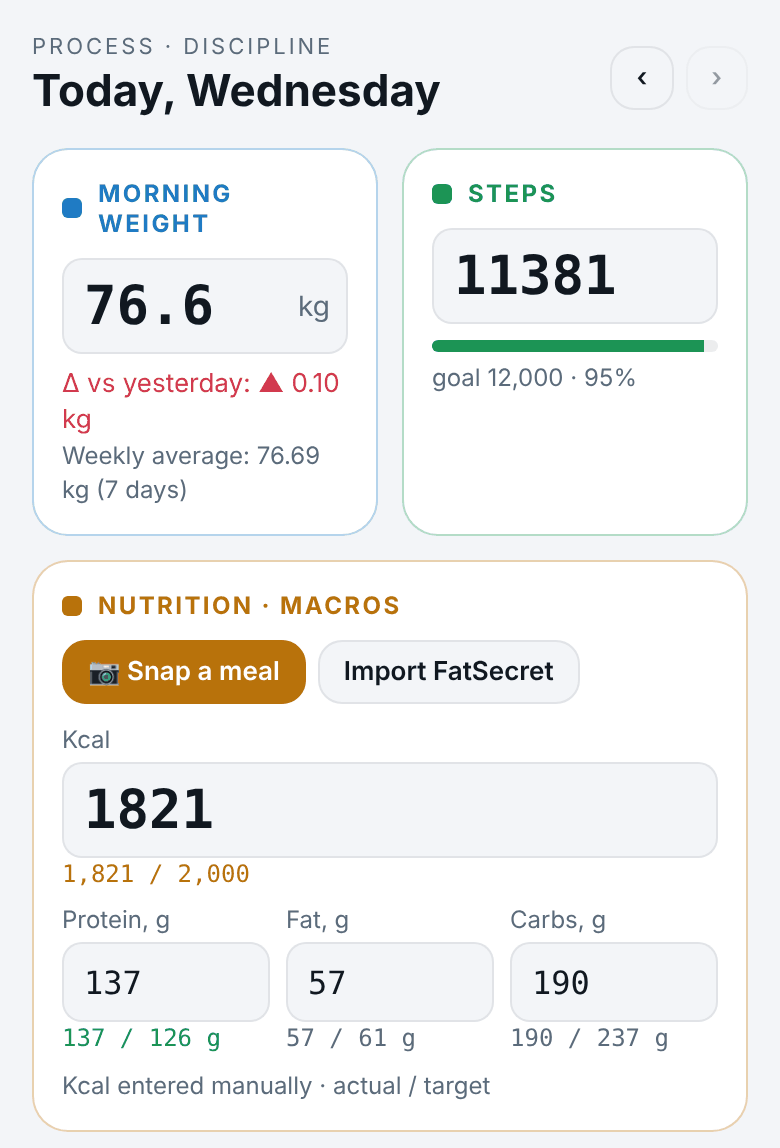
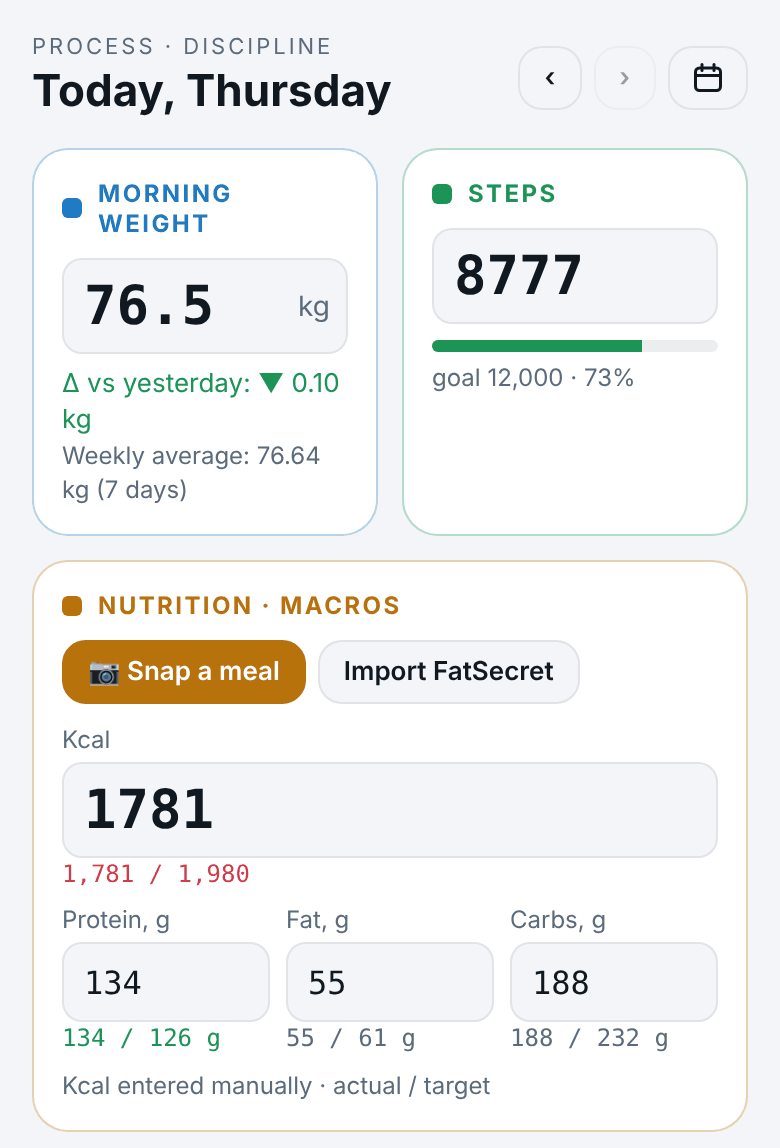
Дневник: кнопка календаря рядом со стрелками — переход к любой дате (RU/EN)
Окно с месяцем: будущие дни недоступны, дни с записями отмечены точкой,
кнопки «Сегодня» и «Отмена». monthCells в core/dates + тесты.
Обновлены текст и скриншоты «Помощи».

Claude-Session: https://claude.ai/code/session_01HA1pnnCCFy6R2TSSsSCTUs

diff --git a/src/ui/DatePicker.tsx b/src/ui/DatePicker.tsx
@@ -1,0 +1,170 @@
+// Календарь для перехода к любому дню дневника. Будущие дни (после today) недоступны,
+// дни с записями помечены точкой. Даты — строки ГГГГ-ММ-ДД по местному времени (без toISOString).
+
+import React, { useEffect, useMemo, useState } from 'react';
+import { Modal, Pressable, Text, View } from 'react-native';
+import Svg, { Line, Rect } from 'react-native-svg';
+import { monthCells, parseISO, type ISODate } from '../core/dates';
+import { useI18n } from '../i18n';
+import { useTheme } from './theme';
+
+/** Иконка календаря для кнопки рядом со стрелками. */
+export function CalendarIcon({ color, size = 16 }: { color: string; size?: number }) {
+  return (
+    <Svg width={size} height={size} viewBox="0 0 16 16" fill="none">
+      <Rect x={1.75} y={3} width={12.5} height={11.25} rx={2} stroke={color} strokeWidth={1.5} />
+      <Line x1={1.75} y1={6.75} x2={14.25} y2={6.75} stroke={color} strokeWidth={1.5} />
+      <Line x1={5} y1={1.25} x2={5} y2={4.25} stroke={color} strokeWidth={1.5} strokeLinecap="round" />
+      <Line x1={11} y1={1.25} x2={11} y2={4.25} stroke={color} strokeWidth={1.5} strokeLinecap="round" />
+    </Svg>
+  );
+}
+
+export function DatePicker({
+  visible,
+  value,
+  max,
+  marked,
+  onPick,
+  onClose,
+}: {
+  visible: boolean;
+  value: ISODate;
+  /** Последний доступный день (сегодня). */
+  max: ISODate;
+  /** Есть ли записи в этот день. */
+  marked: (d: ISODate) => boolean;
+  onPick: (d: ISODate) => void;
+  onClose: () => void;
+}) {
+  const t = useTheme();
+  const { tx } = useI18n();
+  const C = tx.day.calendar;
+  const [ym, setYm] = useState(() => {
+    const d = parseISO(value);
+    return { y: d.getFullYear(), m: d.getMonth() };
+  });
+  useEffect(() => {
+    if (!visible) return;
+    const d = parseISO(value);
+    setYm({ y: d.getFullYear(), m: d.getMonth() });
+  }, [visible, value]);
+
+  const maxD = parseISO(max);
+  const atMax = ym.y > maxD.getFullYear() || (ym.y === maxD.getFullYear() && ym.m >= maxD.getMonth());
+  const cells = useMemo(() => monthCells(ym.y, ym.m, C.weekStart), [ym, C.weekStart]);
+  const heads = [...Array(7)].map((_, i) => C.weekdaysShort[(i + C.weekStart) % 7]);
+  const step = (k: number) => setYm(({ y, m }) => ({ y: y + Math.floor((m + k) / 12), m: (((m + k) % 12) + 12) % 12 }));
+  const pick = (d: ISODate) => {
+    onPick(d);
+    onClose();
+  };
+
+  const navBtn = (label: string, onPress: () => void, disabled: boolean, testID: string) => (
+    <Pressable
+      testID={testID}
+      onPress={onPress}
+      disabled={disabled}
+      hitSlop={6}
+      style={({ pressed }) => ({
+        width: 36,
+        height: 36,
+        borderRadius: 10,
+        borderWidth: 1,
+        borderColor: t.line,
+        backgroundColor: t.input,
+        alignItems: 'center',
+        justifyContent: 'center',
+        opacity: disabled ? 0.35 : pressed ? 0.7 : 1,
+      })}
+    >
+      <Text style={{ color: t.text, fontSize: 18, fontWeight: '600' }}>{label}</Text>
+    </Pressable>
+  );
+
+  return (
+    <Modal visible={visible} transparent animationType="fade" onRequestClose={onClose}>
+      <Pressable
+        onPress={onClose}
+        style={{ flex: 1, backgroundColor: 'rgba(0,0,0,0.55)', alignItems: 'center', justifyContent: 'center', padding: 16 }}
+      >
+        {/* нажатия внутри карточки не закрывают окно */}
+        <Pressable
+          onPress={() => {}}
+          testID="calendar"
+          style={{ width: '100%', maxWidth: 360, backgroundColor: t.card, borderRadius: 18, borderWidth: 1, borderColor: t.cardBorder, padding: 16 }}
+        >
+          <View style={{ flexDirection: 'row', alignItems: 'center', justifyContent: 'space-between', marginBottom: 12 }}>
+            {navBtn('‹', () => step(-1), false, 'calPrev')}
+            <Text style={{ color: t.text, fontSize: 17, fontWeight: '700' }}>
+              {C.months[ym.m]} {ym.y}
+            </Text>
+            {navBtn('›', () => step(1), atMax, 'calNext')}
+          </View>
+
+          <View style={{ flexDirection: 'row' }}>
+            {heads.map((h, i) => (
+              <Text key={i} style={{ width: `${100 / 7}%`, textAlign: 'center', color: t.muted, fontSize: 12, paddingBottom: 6 }}>
+                {h}
+              </Text>
+            ))}
+          </View>
+
+          <View style={{ flexDirection: 'row', flexWrap: 'wrap' }}>
+            {cells.map((d, i) => {
+              if (!d) return <View key={i} style={{ width: `${100 / 7}%`, height: 42 }} />;
+              const future = d > max;
+              const sel = d === value;
+              const today = d === max;
+              const has = !future && marked(d);
+              return (
+                <View key={i} style={{ width: `${100 / 7}%`, height: 42, alignItems: 'center', justifyContent: 'center' }}>
+                  <Pressable
+                    testID={`cal-${d}`}
+                    disabled={future}
+                    onPress={() => pick(d)}
+                    style={({ pressed }) => ({
+                      width: 38,
+                      height: 38,
+                      borderRadius: 19,
+                      alignItems: 'center',
+                      justifyContent: 'center',
+                      backgroundColor: sel ? t.amber : 'transparent',
+                      borderWidth: today && !sel ? 1.5 : 0,
+                      borderColor: t.amber,
+                      opacity: future ? 0.3 : pressed ? 0.7 : 1,
+                    })}
+                  >
+                    <Text style={{ color: sel ? t.onAccent : t.text, fontSize: 15, fontWeight: sel || today ? '700' : '400' }}>
+                      {Number(d.slice(8))}
+                    </Text>
+                    {has ? (
+                      <View
+                        style={{ position: 'absolute', bottom: 4, width: 5, height: 5, borderRadius: 3, backgroundColor: sel ? t.onAccent : t.green }}
+                      />
+                    ) : null}
+                  </Pressable>
+                </View>
+              );
+            })}
+          </View>
+
+          <View style={{ flexDirection: 'row', alignItems: 'center', justifyContent: 'space-between', marginTop: 12 }}>
+            <View style={{ flexDirection: 'row', alignItems: 'center', gap: 6, flexShrink: 1 }}>
+              <View style={{ width: 6, height: 6, borderRadius: 3, backgroundColor: t.green }} />
+              <Text style={{ color: t.muted, fontSize: 12 }}>{C.legend}</Text>
+            </View>
+            <View style={{ flexDirection: 'row', gap: 14 }}>
+              <Pressable onPress={() => pick(max)} hitSlop={6} testID="calToday">
+                <Text style={{ color: t.amber, fontWeight: '600', fontSize: 14 }}>{tx.common.today}</Text>
+              </Pressable>
+              <Pressable onPress={onClose} hitSlop={6} testID="calClose">
+                <Text style={{ color: t.muted, fontWeight: '600', fontSize: 14 }}>{tx.common.cancel}</Text>
+              </Pressable>
+            </View>
+          </View>
+        </Pressable>
+      </Pressable>
+    </Modal>
+  );
+}

diff --git a/src/screens/Day.tsx b/src/screens/Day.tsx
@@ -18,6 +18,7 @@ import { dayPlan, fatTone, kcalTone, proteinTone, type Tone } from '../core/targ
 import { planLine, planNotes, toneColor } from '../ui/targets';
 import { ProposalCards } from './Goal';
 import { useAdvanced } from '../ui/mode';
+import { CalendarIcon, DatePicker } from '../ui/DatePicker';
 
 export function DayScreen({
   sel,
@@ -47,9 +48,15 @@ export function DayScreen({
   const [importMsg, setImportMsg] = useState<{ text: string; ok: boolean } | null>(null);
   const [confirmClear, setConfirmClear] = useState(false);
   const [reportMsg, setReportMsg] = useState('');
+  const [calOpen, setCalOpen] = useState(false);
   const adv = useAdvanced();
   const today = todayISO();
   const set = (patch: Parameters<typeof setDay>[1]) => setDay(sel, patch);
+  /** День с записями — точка в календаре. */
+  const hasEntry = (dd: ISODate) => {
+    const x = days[dd];
+    return !!x && !!(x.weight || x.steps || x.kcal || x.protein || x.workoutMin || x.comment || x.photoMeals?.length);
+  };
 
   // ---- вес ----
   const prevW = days[shiftDate(sel, -1)]?.weight;
@@ -131,8 +138,29 @@ export function DayScreen({
           <Btn small title="‹" onPress={() => setSel(shiftDate(sel, -1))} testID="prevDay" />
           {sel !== today ? <Btn small title={tx.common.today} onPress={() => setSel(today)} /> : null}
           <Btn small title="›" onPress={() => setSel(shiftDate(sel, 1))} disabled={sel >= today} testID="nextDay" />
+          <Pressable
+            testID="openCalendar"
+            accessibilityRole="button"
+            accessibilityLabel={D.calendar.open}
+            onPress={() => setCalOpen(true)}
+            hitSlop={4}
+            style={({ pressed }) => ({
+              borderWidth: 1,
+              borderRadius: 12,
+              borderColor: t.line,
+              backgroundColor: t.input,
+              paddingVertical: 7,
+              paddingHorizontal: 11,
+              alignItems: 'center',
+              justifyContent: 'center',
+              opacity: pressed ? 0.75 : 1,
+            })}
+          >
+            <CalendarIcon color={t.text} />
+          </Pressable>
         </Row>
       </Row>
+      <DatePicker visible={calOpen} value={sel} max={today} marked={hasEntry} onPick={setSel} onClose={() => setCalOpen(false)} />
 
       <ProposalCards />
 

diff --git a/src/help/shots.gen.ts b/src/help/shots.gen.ts
@@ -8,7 +8,7 @@ export const HELP_SHOTS: Record<string, Record<string, HelpShot>> = {
     start: { src: require('../../assets/help/ru/start.png'), w: 780, h: 1646 },
     onboard: { src: require('../../assets/help/ru/onboard.png'), w: 780, h: 1216 },
     day: { src: require('../../assets/help/ru/day.png'), w: 780, h: 1118 },
-    workout: { src: require('../../assets/help/ru/workout.png'), w: 780, h: 1450 },
+    workout: { src: require('../../assets/help/ru/workout.png'), w: 780, h: 1416 },
     comment: { src: require('../../assets/help/ru/comment.png'), w: 780, h: 840 },
     fact: { src: require('../../assets/help/ru/fact.png'), w: 780, h: 1900 },
     charts: { src: require('../../assets/help/ru/charts.png'), w: 780, h: 1508 },
@@ -23,7 +23,7 @@ export const HELP_SHOTS: Record<string, Record<string, HelpShot>> = {
     start: { src: require('../../assets/help/en/start.png'), w: 780, h: 1534 },
     onboard: { src: require('../../assets/help/en/onboard.png'), w: 780, h: 1216 },
     day: { src: require('../../assets/help/en/day.png'), w: 780, h: 1148 },
-    workout: { src: require('../../assets/help/en/workout.png'), w: 780, h: 1450 },
+    workout: { src: require('../../assets/help/en/workout.png'), w: 780, h: 1416 },
     comment: { src: require('../../assets/help/en/comment.png'), w: 780, h: 840 },
     fact: { src: require('../../assets/help/en/fact.png'), w: 780, h: 1824 },
     charts: { src: require('../../assets/help/en/charts.png'), w: 780, h: 1400 },

diff --git a/src/core/core.test.ts b/src/core/core.test.ts
@@ -1,5 +1,5 @@
 import { describe, expect, it } from 'vitest';
-import { addMonthsClamped, ageAt, shiftDate, toLocalISO } from './dates';
+import { addMonthsClamped, ageAt, monthCells, shiftDate, toLocalISO } from './dates';
 import { energyModel, PaceIndex } from './energy';
 import { measureHint, navyBodyFat } from './body';
 import { adaptiveTDEE, goalForecast, wls } from './adaptive';
@@ -225,5 +225,19 @@ describe('режим интерфейса', () => {
   it('новый клиент — базовый, демо — продвинутый', () => {
     expect(DEFAULT_PROFILE.uiMode).toBe('basic');
     expect(demoProfile().uiMode).toBe('advanced');
+  });
+});
+
+describe('monthCells (календарь дневника)', () => {
+  it('ноябрь 2026 с понедельника: 1-е — воскресенье, 6 пустых клеток', () => {
+    const c = monthCells(2026, 10, 1);
+    expect(c.slice(0, 7)).toEqual([null, null, null, null, null, null, '2026-11-01']);
+    expect(c.filter(Boolean).length).toBe(30);
+    expect(c.length % 7).toBe(0);
+    expect(c.filter(Boolean).at(-1)).toBe('2026-11-30');
+  });
+  it('с воскресенья: 1 ноября 2026 в первой клетке; февраль високосного года', () => {
+    expect(monthCells(2026, 10, 0)[0]).toBe('2026-11-01');
+    expect(monthCells(2028, 1, 1).filter(Boolean).length).toBe(29);
   });
 });

diff --git a/src/i18n/help.ru.ts b/src/i18n/help.ru.ts
@@ -71,7 +71,7 @@ export const helpRu = {
       id: 'day',
       title: 'Дневник дня: вес, шаги, питание',
       text: [
-        'Стрелки ‹ › вверху переключают дни. Можно заполнять и прошлые дни.',
+        'Стрелки ‹ › вверху переключают дни, а кнопка с календарём открывает выбор любой даты (точкой отмечены дни с записями). Можно заполнять и прошлые дни.',
         '**Утренний вес** — натощак, после туалета. Ниже видно изменение к вчерашнему и среднее за неделю.',
         '**Шаги** — из телефона или трекера, за весь день.',
         '**Питание**: впишите калории и БЖУ вручную, нажмите «Импорт FatSecret» или «📷 Сфотографировать» и выберите приём пищи. Если калории не введены, они считаются по БЖУ.',

diff --git a/src/i18n/ru.ts b/src/i18n/ru.ts
@@ -154,6 +154,14 @@ export const ru = {
     /** relative — вместо даты «Сегодня»/«Вчера». */
     title: (date: string, weekday: string, _relative = false) => `${date}, ${weekday}`,
     reportSent: 'Отчёт куратору отправлен',
+    calendar: {
+      open: 'Выбрать дату',
+      months: ['Январь', 'Февраль', 'Март', 'Апрель', 'Май', 'Июнь', 'Июль', 'Август', 'Сентябрь', 'Октябрь', 'Ноябрь', 'Декабрь'],
+      weekdaysShort: ['вс', 'пн', 'вт', 'ср', 'чт', 'пт', 'сб'], // с воскресенья, как Date.getDay()
+      /** С какого дня начинается неделя: 1 — понедельник, 0 — воскресенье. */
+      weekStart: 1 as 0 | 1,
+      legend: 'есть записи',
+    },
     weight: {
       title: 'Утренний вес',
       placeholder: '0,00',

diff --git a/src/core/dates.ts b/src/core/dates.ts
@@ -58,4 +58,15 @@ export function dateRange(from: ISODate, to: ISODate): ISODate[] {
   return out;
 }
 
+/** Ячейки месяца: null — пустые клетки до первого числа. weekStart: 1 — с понедельника, 0 — с воскресенья. */
+export function monthCells(year: number, month0: number, weekStart: 0 | 1): (ISODate | null)[] {
+  const first = new Date(year, month0, 1, 12);
+  const lead = (first.getDay() - weekStart + 7) % 7;
+  const n = new Date(year, month0 + 1, 0, 12).getDate();
+  const out: (ISODate | null)[] = Array(lead).fill(null);
+  for (let d = 1; d <= n; d++) out.push(toLocalISO(new Date(year, month0, d, 12)));
+  while (out.length % 7) out.push(null);
+  return out;
+}
+
 // Форматирование дат для интерфейса (по языку) — в src/i18n/format.ts.

diff --git a/src/i18n/help.en.ts b/src/i18n/help.en.ts
@@ -71,7 +71,7 @@ export const helpEn: typeof helpRu = {
       id: 'day',
       title: 'Daily log: weight, steps, food',
       text: [
-        'The ‹ › arrows at the top switch days. You can fill in past days too.',
+        'The ‹ › arrows at the top switch days, and the calendar button lets you jump to any date (days with entries are marked with a dot). You can fill in past days too.',
         '**Morning weight**: fasted, after the toilet. Below it you see the change since yesterday and the weekly average.',
         '**Steps**: from your phone or tracker, for the whole day.',
         '**Food**: enter calories and macros by hand, tap "Import FatSecret", or tap "📷 Snap a meal" and pick the meal. If calories are empty, they are calculated from macros.',

diff --git a/src/i18n/en.ts b/src/i18n/en.ts
@@ -145,6 +145,13 @@ export const en: Dict = {
     motto: 'PROCESS · DISCIPLINE',
     title: (date, weekday, relative = false) => (relative ? `${date}, ${weekday}` : `${weekday}, ${date}`),
     reportSent: 'Report sent to your coach',
+    calendar: {
+      open: 'Pick a date',
+      months: MONTHS,
+      weekdaysShort: ['Su', 'Mo', 'Tu', 'We', 'Th', 'Fr', 'Sa'],
+      weekStart: 0,
+      legend: 'has entries',
+    },
     weight: {
       title: 'Morning weight',
       placeholder: '0.00',
